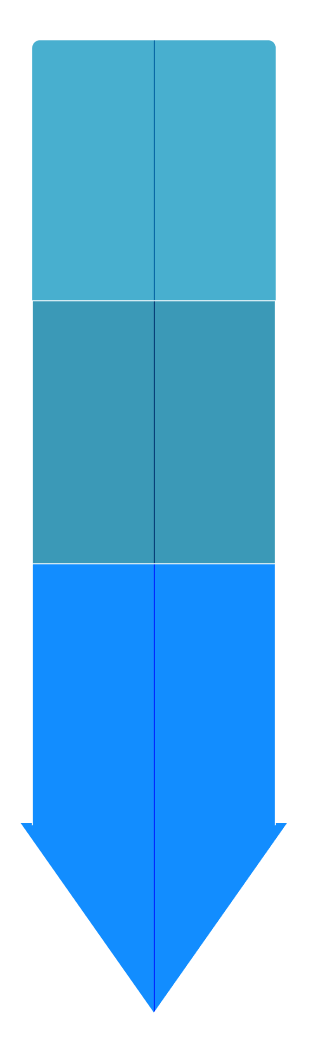
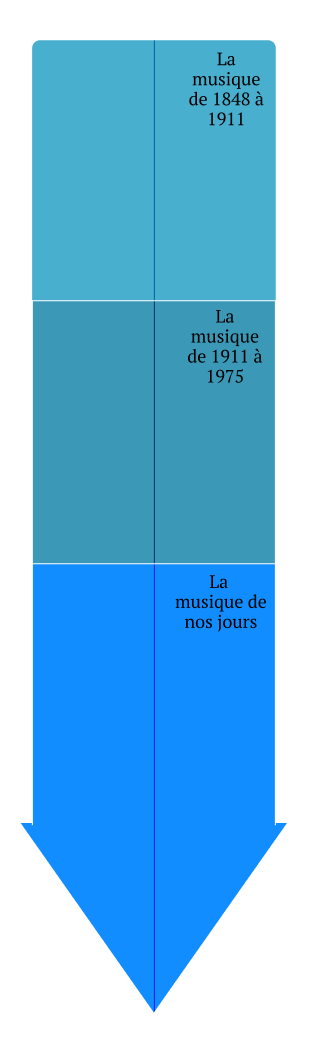
Firse terminé

Changed region(s): [[0.5247, 0.5496, 0.8333, 0.6107], [0.5864, 0.3053, 0.8025, 0.3664], [0.5864, 0.0305, 0.8025, 0.1221]]

diff --git a/Histoire_Feminisme.html b/Histoire_Feminisme.html
@@ -92,18 +92,21 @@
 <!--Frise-->
 
 <div class="frise">
-    <h2 class="frise__title">La <br>musique <br> de 1848 à <br> 1911</h2>
-        <a href="#son1"><div class="frise__carre"></div></a>
-        <a href="#son2"><div class="frise__carre"></div></a>
-        <a href="#son3"><div class="frise__carre"></div></a>
-    <h2 class="frise__title2">La <br>musique <br> de 1911 à <br> 1975</h2>
-      <a href="#son4"><div class="frise__carre"></div></a>
-      <a href="#son5"><div class="frise__carre"></div></a>
-      <a href="#son6"><div class="frise__carre"></div></a>
-    <h2 class="frise__title3">La <br>musique de <br> nos jours</h2>
-        <a href="#son7"><div class="frise__carre"></div></a>
-        <a href="#son8"><div class="frise__carre"></div></a>
-        <a href="#son9"><div class="frise__carre"></div></a>
+    <div class="frise__bloc1">
+        <a href="#son1"><div class="frise__carre"><p>1848</p></div></a>
+        <a href="#son2"><div class="frise__carre"><p>1898</p></div></a>
+        <a href="#son3"><div class="frise__carre"><p>1911</p></div></a>
+    </div>
+    <div class="frise__bloc2">
+        <a href="#son4"><div class="frise__carre"><p>1971</p></div></a>
+        <a href="#son5"><div class="frise__carre"><p>1974</p></div></a>
+        <a href="#son6"><div class="frise__carre"><p>1975</p></div></a>
+    </div>
+    <div class="frise__bloc3">
+        <a href="#son7"><div class="frise__carre"><p>2011</p></div></a>
+        <a href="#son8"><div class="frise__carre"><p>2017</p></div></a>
+        <a href="#son9"><div class="frise__carre"><p>2018</p></div></a>
+    </div>
 </div>
 
     <div class="rectangle" id="son1"></div>

diff --git a/src/css/components/frise.css b/src/css/components/frise.css
@@ -45,10 +45,42 @@
 }
 
 .frise__carre {
-    height: 30px;
-    width: 30px;
+    height: 40px;
+    width: 40px;
     background: var(--fond);
     border: solid 2px var(--blanc);
     z-index: 5;
     transform: rotate(45deg);
+    margin-right: 50px;
+    margin-left: 35px;
+}
+
+.frise__bloc1 .frise__carre {
+    margin-top: 30%;
+}
+
+.frise__bloc2 .frise__carre {
+    margin-top: 30%;
+}
+
+.frise__bloc3 .frise__carre {
+    margin-top: 50%;
+}
+
+.frise__bloc1, .frise__bloc2 {
+    margin-top: 30px;
+}
+
+.frise__bloc3 {
+    margin-top: 40px;
+}
+
+.frise p {
+    display: block;
+    margin-right: 5px;
+    margin-top: 8px;
+    font-family: var(--font-serif);
+    font-size: 13px;
+    text-align: center;
+    transform: rotate(-45deg);
 }

diff --git a/À propos.html b/À propos.html
@@ -199,9 +199,16 @@
             </a>
 
             <a href="http://hertha.fabiogafforelli.fr/index.html">
-                <div class="image155">
+                <div class="image155 imgalt">
                     <img id="img9"  src="assets/img/Logo_autres_projets/HerthaAccueil.svg" class="carrousel__img">
                     <p class="carrousel__legende">Site de Fabio Gafforelli</p>
+                </div>
+            </a>
+
+            <a href="https://feminart.joury.fr/">
+                <div class="image155">
+                    <img id="img10"  src="assets/img/Logo_autres_projets/Feminart.png" class="carrousel__img">
+                    <p class="carrousel__legende">Site de Titouan Joury</p>
                 </div>
             </a>
 

diff --git a/src/js/fonctions.js b/src/js/fonctions.js
@@ -22,7 +22,8 @@ function carrousel() {
             if (ind == 6) return 7*delta + 6*d;
             if (ind == 7) return 8*delta + 7*d;
             if (ind == 8) return 9*delta + 8*d;
-            return 9*delta + 8*d;
+            if (ind == 9) return 10*delta + 9*d;
+            return 10*delta + 9*d;
         }
     });
     anim15.add({

diff --git a/src/css/components/menu.css b/src/css/components/menu.css
@@ -10,7 +10,7 @@
     background-color: var(--fond);
     font-size: var(--text-xl);
     letter-spacing: var(--letter-spacing);
-    transition: all .4s ease-in-out;
+    transition: all.4s ease-in-out;
   }
 
   .menu--open {

diff --git a/src/css/layout/header.css b/src/css/layout/header.css
@@ -14,6 +14,7 @@
   border-bottom-right-radius: 7px;
   padding-top: 30px;
   height: 100px;
+  z-index: 10;
 
 }
 
